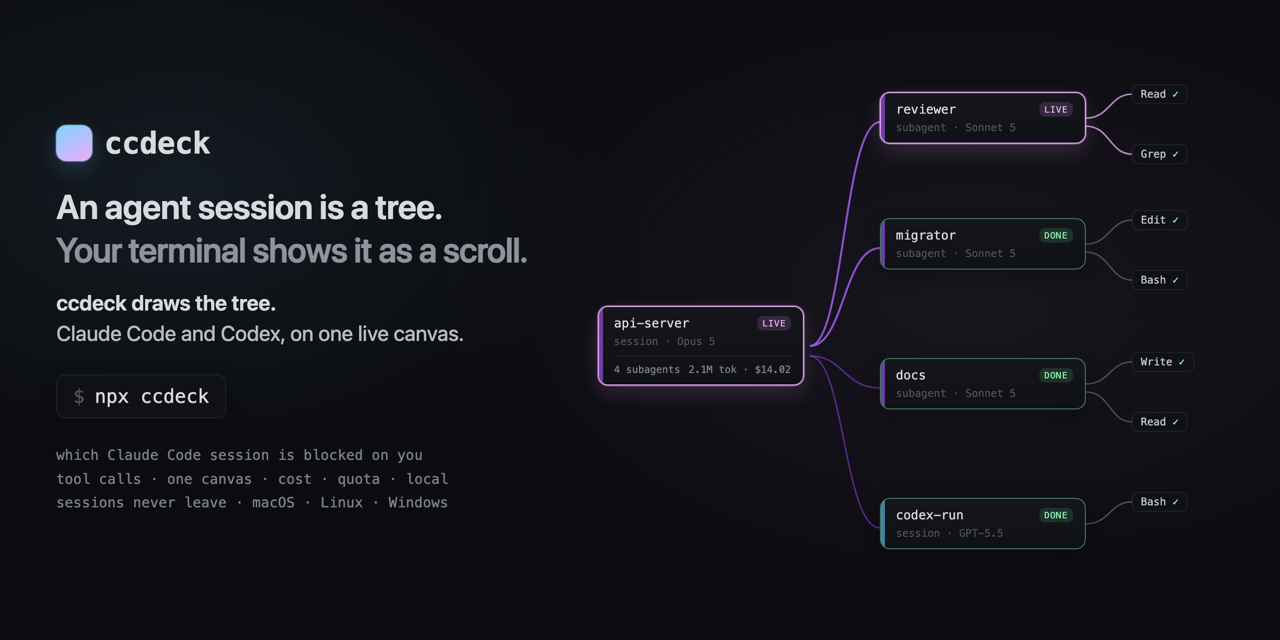
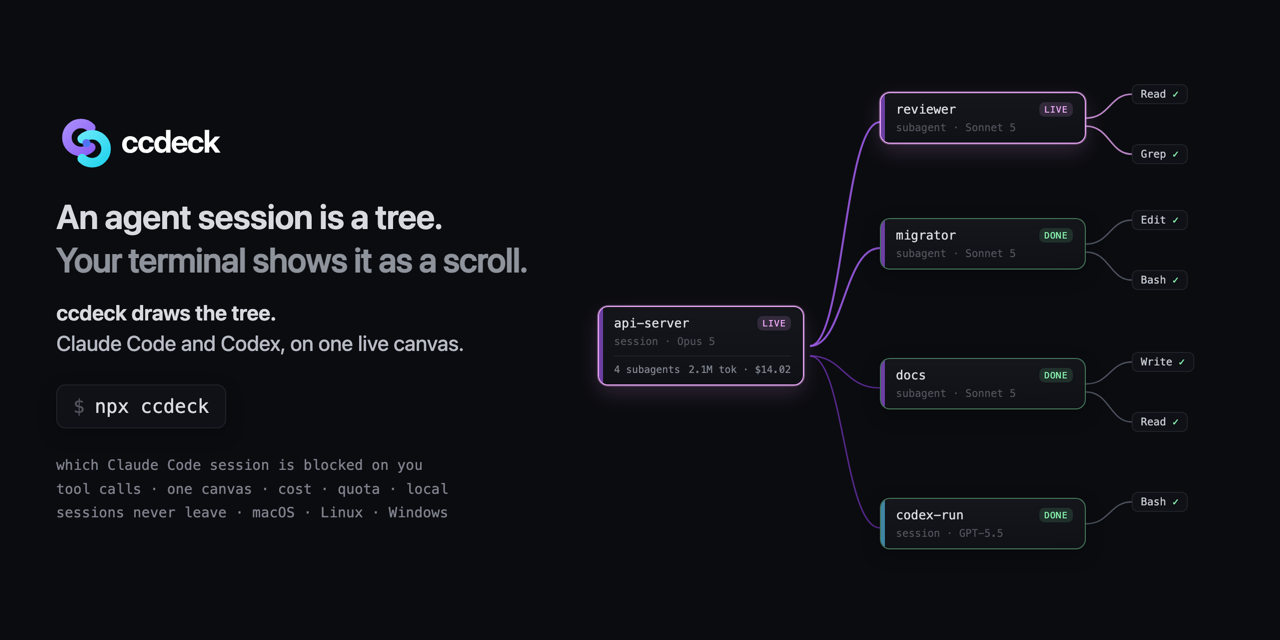
docs(brand): the README and the social card carry the kit's lockup
The README hero gains a <picture> of the brand kit's horizontal lockup
above the typed h1, on-dark for a dark GitHub theme and on-light for the
rest, alt "ccdeck", both copied unchanged into assets/brand/. The lockup's
artwork ends two thirds of the way across its viewBox, and GitHub strips
CSS, so an #svgView fragment on the image URL crops the empty tail without
touching the file; its commas are %2C because GitHub's sanitizer cuts a
srcset at a raw one. A renderer that ignores the fragment shows the whole
lockup.

The social card's CSS-drawn gradient glyph, its glow and the typed name
become the on-dark lockup in a clipping box, and the two background glows
are flattened to the ground under the kit's one-gradient rule; every text
claim on it is unchanged. The PNG is re-rendered the way it always was
(the old HTML reproduced the old PNG byte for byte first) and still has to
be uploaded by hand. Both crops are v1.0 kit workarounds.

diff --git a/assets/social-preview.html b/assets/social-preview.html
@@ -11,20 +11,17 @@
 *{box-sizing:border-box;margin:0}
 html,body{width:1280px;height:640px}
 body{
-  background:
-    radial-gradient(880px 520px at 76% 46%, rgba(240,171,252,.06), transparent 62%),
-    radial-gradient(720px 460px at 14% 30%, rgba(125,211,252,.075), transparent 60%),
-    var(--bg);
+  background:var(--bg);
   color:var(--text);
   font-family:-apple-system,BlinkMacSystemFont,"Segoe UI",Inter,system-ui,sans-serif;
   display:grid; grid-template-columns:534px 626px; align-items:center;
   padding:0 56px; gap:8px; overflow:hidden;
 }
-.mark{display:flex;align-items:center;gap:12px;margin-bottom:24px}
-.glyph{width:36px;height:36px;border-radius:10px;
-  background:linear-gradient(150deg,#7dd3fc,#f0abfc);
-  box-shadow:0 0 0 1px rgba(125,211,252,.35),0 8px 22px rgba(125,211,252,.18)}
-.name{font-family:var(--mono);font-size:30px;font-weight:600;letter-spacing:-.4px}
+/* The kit's on-dark lockup, unchanged. The box crops the lockup's empty right
+   third (v1.0 kit workaround: its artwork ends near x 293 of a 430 viewBox,
+   so 304 of 430 keeps the artwork and the clear space on its left). */
+.mark{width:170px;height:56px;overflow:hidden;margin-bottom:24px}
+.mark img{display:block;height:56px}
 h1{font-size:34px;line-height:1.26;font-weight:640;letter-spacing:-.6px}
 h1 .dim{color:#8f939c;font-weight:520}
 .answer{margin-top:17px;font-size:21px;line-height:1.45;color:#b7bbc4;font-weight:450;max-width:500px}
@@ -61,7 +58,7 @@ svg{position:absolute;inset:0;width:100%;height:100%}
 </style>
 
 <div>
-  <div class="mark"><div class="glyph"></div><div class="name">ccdeck</div></div>
+  <div class="mark"><img src="brand/ccdeck-horizontal-on-dark.svg" alt="ccdeck"></div>
   <h1>An agent session is a tree.<br><span class="dim">Your terminal shows it as a scroll.</span></h1>
   <div class="answer"><b>ccdeck draws the tree.</b><br>Claude Code and Codex, on one live canvas.</div>
   <div class="cmd"><span class="p">$</span> npx ccdeck</div>

diff --git a/README.md b/README.md
@@ -1,5 +1,14 @@
 <div align="center">
 
+<!-- The lockup's artwork ends two thirds of the way across its viewBox (a v1.0
+     kit workaround): #svgView crops the empty right third without touching the
+     file, and a renderer that ignores it shows the whole lockup. Re-measure or
+     drop it with the next kit. See assets/brand/README.md. -->
+<picture>
+  <source media="(prefers-color-scheme: dark)" srcset="assets/brand/ccdeck-horizontal-on-dark.svg#svgView(viewBox(0%2C0%2C304%2C100))">
+  <img src="assets/brand/ccdeck-horizontal-on-light.svg#svgView(viewBox(0%2C0%2C304%2C100))" width="304" alt="ccdeck">
+</picture>
+
 # ccdeck — a live dashboard for Claude Code and Codex
 
 ccdeck is a free, open-source (AGPL-3.0) dashboard that runs on your machine and shows every Claude Code and OpenAI Codex CLI session, including ones started in a plain terminal: which Claude Code session needs input, each Claude Code subagent and every tool call as it runs, cost and quota left. Start it with `npx ccdeck` or the desktop app.
